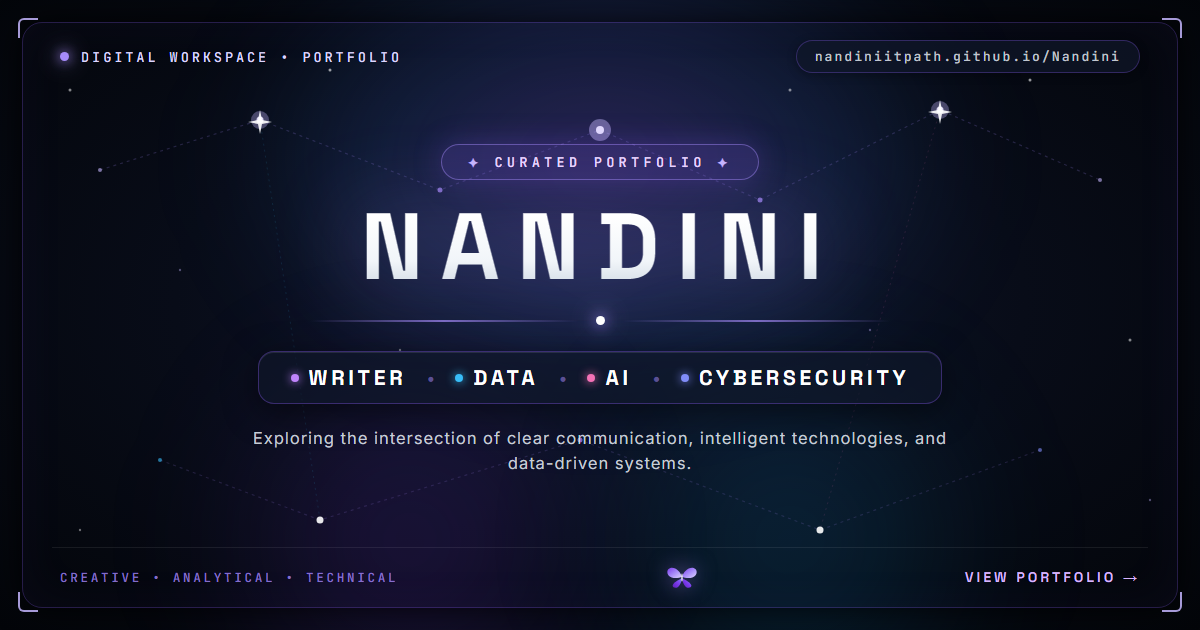
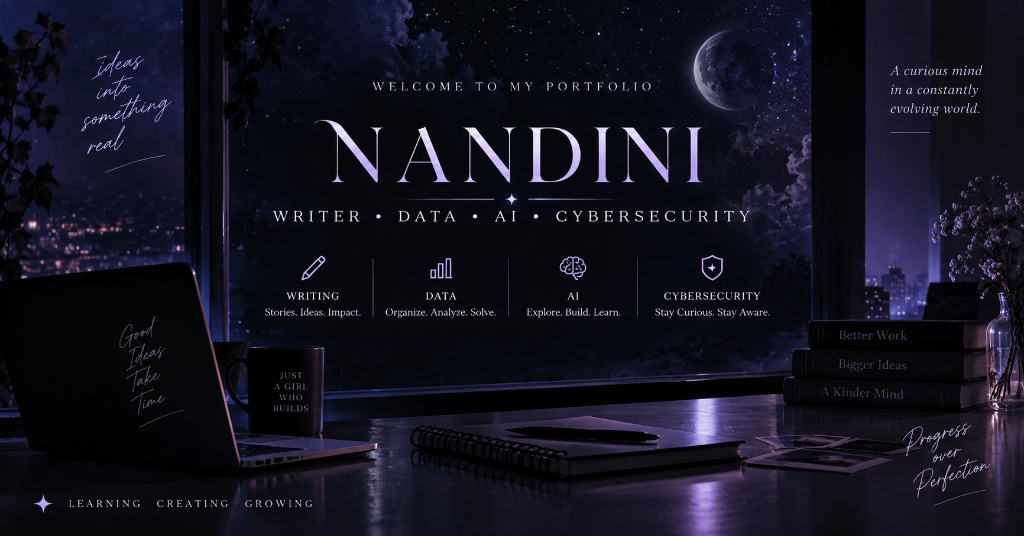
.\Update portfolio social preview image

diff --git a/index.html b/index.html
@@ -9,19 +9,19 @@
 
     <!-- Open Graph / LinkedIn / Facebook -->
     <meta property="og:type" content="website">
-    <meta property="og:url" content="https://nandiniitpath.github.io/Nandini/">
     <meta property="og:title" content="NANDINI — Writer • Data • AI • Cybersecurity">
-    <meta property="og:description" content="Portfolio of Nandini — Writer, data &amp; documentation specialist, and technology enthusiast exploring AI and cybersecurity.">
+    <meta property="og:description" content="Nandini's personal portfolio showcasing writing, data, AI, cybersecurity learning, projects and creative work.">
+    <meta property="og:url" content="https://nandiniitpath.github.io/Nandini/">
     <meta property="og:image" content="https://nandiniitpath.github.io/Nandini/assets/portfolio-preview.png">
     <meta property="og:image:width" content="1200">
     <meta property="og:image:height" content="630">
-    <meta property="og:image:alt" content="NANDINI — Writer • Data • AI • Cybersecurity">
+    <meta property="og:image:type" content="image/png">
+    <meta property="og:image:alt" content="Nandini portfolio">
 
     <!-- Twitter / X -->
     <meta name="twitter:card" content="summary_large_image">
-    <meta name="twitter:url" content="https://nandiniitpath.github.io/Nandini/">
     <meta name="twitter:title" content="NANDINI — Writer • Data • AI • Cybersecurity">
-    <meta name="twitter:description" content="Portfolio of Nandini — Writer, data &amp; documentation specialist, and technology enthusiast exploring AI and cybersecurity.">
+    <meta name="twitter:description" content="Nandini's personal portfolio showcasing writing, data, AI, cybersecurity learning, projects and creative work.">
     <meta name="twitter:image" content="https://nandiniitpath.github.io/Nandini/assets/portfolio-preview.png">
     <link rel="preconnect" href="https://fonts.googleapis.com">
     <link rel="preconnect" href="https://fonts.gstatic.com" crossorigin>
